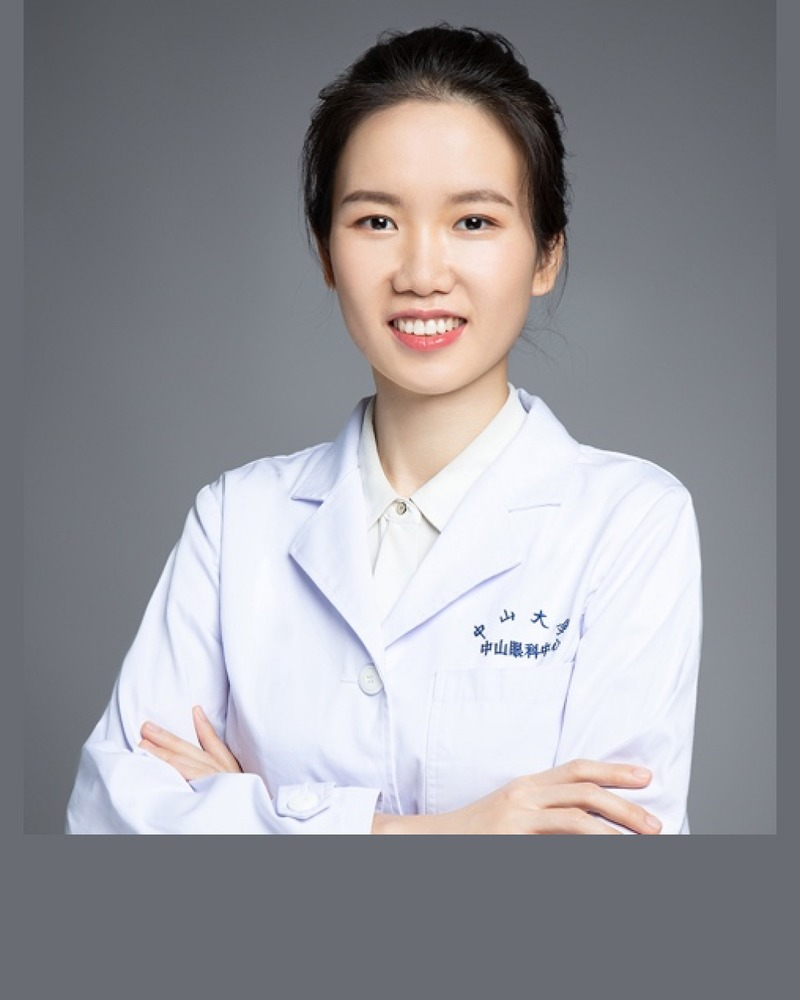
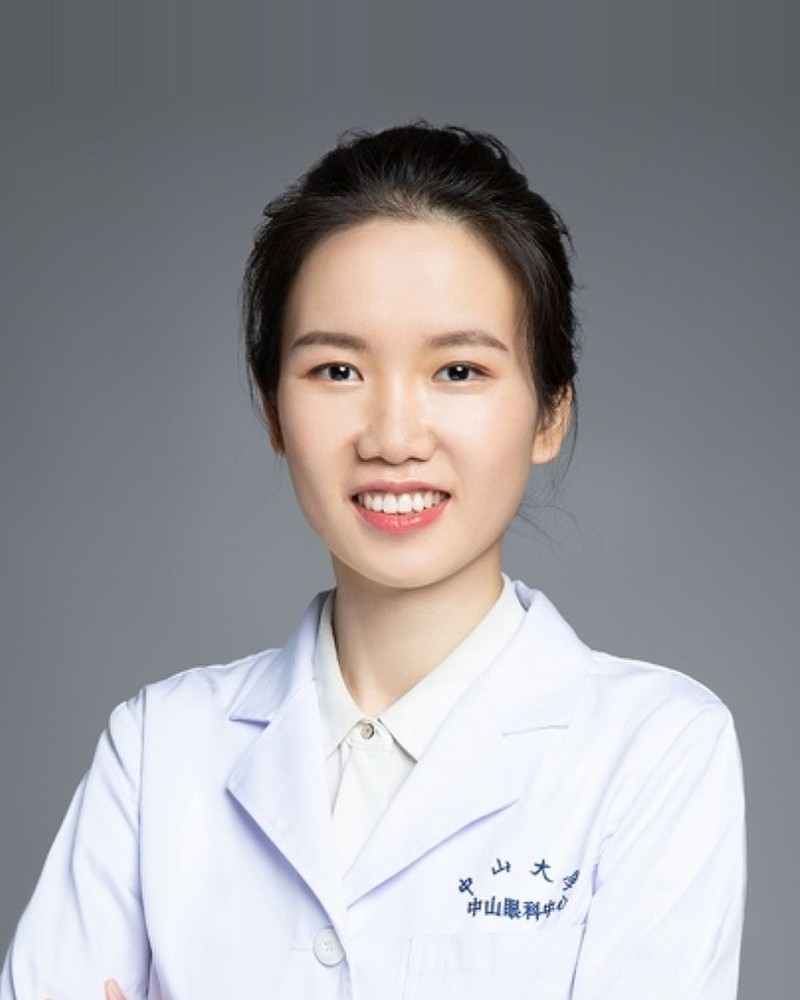
Polish per review feedback
- Hero/sections: cut excess vertical whitespace (shorter hero, tighter
  section + section-header padding) so the landing page reads compactly.
- Faculty photos: re-crop all five to a uniform head size/position with
  seamless backgrounds (removes letterbox bars and edge seams).
- Cohorts page: streamline ZAP/GDES/ZHMC intros - drop repeated numbers
  and the text wall, surface a publication record by journal with real
  counts (ZAP 16, GDES 31, ZHMC 19).
- Data Access: drop wrapping full cohort names from the snapshot cards
  (keep abbreviations); shorten eligibility / data-use items to one line.
- Publications: give every reference the same cyan left-border card.
- Team/Contact: PI photo now fills its card (no dead space below);
  remove the Lancet attribution from the PI bio and the unclear
  "Associate Director" title.

diff --git a/cohorts.html b/cohorts.html
@@ -10,7 +10,7 @@
 <link rel="stylesheet" href="assets/css/site.css?v=20260619-polish3">
 <style>
 /* Cohort page extras */
-.cohort-overview{display:grid;grid-template-columns:repeat(3,minmax(0,1fr));gap:18px;margin-bottom:3.5rem}
+.cohort-overview{display:grid;grid-template-columns:repeat(3,minmax(0,1fr));gap:18px;margin-bottom:2.5rem}
 .cohort-overview__card{
   display:grid;grid-template-columns:72px 1fr;gap:18px;align-items:center;
   background:linear-gradient(160deg,rgba(255,255,255,.085),rgba(0,212,255,.04));
@@ -23,7 +23,7 @@
 .cohort-overview__title{font-size:1rem;font-weight:800;color:#fff;line-height:1.22;margin-bottom:7px}
 .cohort-overview__title span{display:block}
 .cohort-overview__text{font-size:.85rem;color:var(--muted);line-height:1.55}
-.cohort-section{margin-bottom:5rem;scroll-margin-top:80px}
+.cohort-section{margin-bottom:3.25rem;scroll-margin-top:80px}
 .cohort-header{display:flex;align-items:center;gap:1rem;margin-bottom:2rem}
 .cohort-badge{font-weight:700;font-size:.72rem;letter-spacing:.12em;text-transform:uppercase;padding:.35rem 1rem;border-radius:999px}
 .cohort-badge--zap{background:rgba(99,102,241,.18);color:#818cf8}
@@ -38,8 +38,10 @@
 .cohort-keypoint{background:rgba(255,255,255,.05);border:1px solid rgba(255,255,255,.1);border-radius:var(--radius-sm);padding:.9rem}
 .cohort-keypoint strong{display:block;color:#fff;font-size:.86rem;margin-bottom:.25rem}
 .cohort-keypoint span{display:block;color:var(--muted);font-size:.78rem;line-height:1.5}
+.cohort-pubs-label{font-size:.7rem;font-weight:700;color:var(--muted);text-transform:uppercase;letter-spacing:.1em;margin:1.5rem 0 .1rem}
+.cohort-pubs-label b{color:var(--cyan)}
 .cohort-proof{
-  display:grid;grid-template-columns:repeat(3,minmax(0,1fr));gap:.75rem;margin:1.15rem 0 1.35rem;
+  display:grid;grid-template-columns:repeat(3,minmax(0,1fr));gap:.75rem;margin:.55rem 0 1.4rem;
 }
 .cohort-proof__item{
   background:rgba(0,212,255,.065);border:1px solid rgba(0,212,255,.18);
@@ -69,7 +71,7 @@
 .cstat__measure-title{font-size:.7rem;font-weight:700;color:var(--muted);text-transform:uppercase;letter-spacing:.1em;margin-bottom:.65rem}
 .measures-grid{display:flex;flex-wrap:wrap;gap:.4rem}
 .measure-pill{font-size:.72rem;background:rgba(255,255,255,.05);border:1px solid rgba(255,255,255,.1);border-radius:4px;padding:.2rem .6rem;color:rgba(255,255,255,.65)}
-.divider{border:none;border-top:1px solid var(--border-sub);margin:0 0 5rem}
+.divider{border:none;border-top:1px solid var(--border-sub);margin:0 0 3.25rem}
 /* Highlights */
 .highlight-box{
   background:linear-gradient(135deg,rgba(0,212,255,.05) 0%,rgba(255,255,255,.02) 100%);
@@ -166,34 +168,19 @@
 
       <div class="cohort-body">
         <div class="cohort-desc">
-          <p><strong>ZAP</strong> is the Zhongshan Angle-Closure Prevention Trial: an 889-participant randomized trial designed to answer one clinical question with unusual clarity &mdash; whether laser peripheral iridotomy prevents angle-closure progression in primary angle-closure suspects.</p>
+          <p><strong>ZAP</strong> &mdash; the Zhongshan Angle-Closure Prevention Trial &mdash; is a within-person randomized trial testing whether laser peripheral iridotomy prevents angle-closure progression in primary angle-closure suspects. Long follow-up and deep AS-OCT phenotyping make it the consortium's clearest platform for prevention and progression research.</p>
 
           <div class="cohort-keypoints">
-            <div class="cohort-keypoint"><strong>Design strength</strong><span>Within-person randomized design: one treated eye and one observed eye.</span></div>
-            <div class="cohort-keypoint"><strong>Clinical depth</strong><span>Gonioscopy, AS-OCT, IOP, visual fields, and anterior-segment biometry.</span></div>
-            <div class="cohort-keypoint"><strong>Scientific use</strong><span>Prevention evidence, risk prediction, and angle-closure natural history.</span></div>
+            <div class="cohort-keypoint"><strong>Design strength</strong><span>Within-person randomization: one treated eye, one observed eye.</span></div>
+            <div class="cohort-keypoint"><strong>Imaging depth</strong><span>Gonioscopy, AS-OCT, IOP, visual fields, and anterior-segment biometry.</span></div>
+            <div class="cohort-keypoint"><strong>Scientific use</strong><span>Prevention evidence, risk prediction, and natural-history modelling.</span></div>
           </div>
 
+          <div class="cohort-pubs-label">Publication record &middot; <b>16</b> peer-reviewed papers</div>
           <div class="cohort-proof">
-            <div class="cohort-proof__item"><strong>Lancet</strong><span>Primary RCT evidence base</span></div>
-            <div class="cohort-proof__item"><strong>Ophthalmology</strong><span>14-year extended follow-up</span></div>
-            <div class="cohort-proof__item"><strong>JAMA Ophthalmol</strong><span>AS-OCT progression mechanisms</span></div>
-          </div>
-
-          <div class="highlight-box">
-            <div class="highlight-box__label">Core Advantage</div>
-            <div class="highlight-box__text">ZAP combines randomized prevention evidence with long-term imaging follow-up, making it the consortium's clearest platform for angle-closure prevention and progression modelling.</div>
-          </div>
-
-          <p>The available research story is intentionally simple: a large prevention RCT, long follow-up, deep AS-OCT phenotyping, and a publication record spanning <em>Lancet</em>, <em>Ophthalmology</em>, and <em>JAMA Ophthalmology</em>.</p>
-
-          <div class="cohort-tags">
-            <span class="ctag ctag--blue">18-Year RCT</span>
-            <span class="ctag ctag--blue">889 Participants</span>
-            <span class="ctag ctag--blue">~1,750 Eyes</span>
-            <span class="ctag ctag--cyan">Lancet 2019</span>
-            <span class="ctag ctag--cyan">JAMA Ophthalmol</span>
-            <span class="ctag ctag--cyan">Ophthalmology</span>
+            <div class="cohort-proof__item"><strong>Lancet &times;1</strong><span>Landmark prevention RCT</span></div>
+            <div class="cohort-proof__item"><strong>JAMA Ophthalmol &times;4</strong><span>Progression &amp; biometric risk</span></div>
+            <div class="cohort-proof__item"><strong>Ophthalmology &times;4</strong><span>Long-term follow-up</span></div>
           </div>
 
           <div class="cohort-actions">
@@ -216,7 +203,7 @@
             <div class="cstat__lbl">Eyes Enrolled</div>
           </div>
           <div class="cstat cstat--zap">
-            <div class="cstat__num">15+</div>
+            <div class="cstat__num">16</div>
             <div class="cstat__lbl">Publications</div>
           </div>
           <div class="cstat cstat--zap cstat--measures">
@@ -249,34 +236,19 @@
 
       <div class="cohort-body">
         <div class="cohort-desc">
-          <p><strong>GDES</strong> is a deeply phenotyped diabetic eye cohort linking retinal structure, retinal microvasculature, plasma proteomics, metabolomics, and systemic outcomes in more than 3,000 participants with type 2 diabetes.</p>
+          <p><strong>GDES</strong> &mdash; the Guangzhou Diabetic Eye Study &mdash; is a deeply phenotyped type-2-diabetes eye cohort that links multimodal retinal imaging with plasma proteomics and metabolomics to systemic outcomes, turning the retina into a systemic-biomarker platform.</p>
 
           <div class="cohort-keypoints">
             <div class="cohort-keypoint"><strong>Multi-modal imaging</strong><span>Fundus photography, OCT, SS-OCTA, and longitudinal retinal phenotypes.</span></div>
-            <div class="cohort-keypoint"><strong>Multi-omics layer</strong><span>2,923 plasma proteins plus metabolomics and genetic resources.</span></div>
+            <div class="cohort-keypoint"><strong>Multi-omics layer</strong><span>Plasma proteomics, metabolomics, and genetic resources.</span></div>
             <div class="cohort-keypoint"><strong>Systemic links</strong><span>Cardiometabolic, renal, mortality, and diabetic complication outcomes.</span></div>
           </div>
 
+          <div class="cohort-pubs-label">Publication record &middot; <b>31</b> peer-reviewed papers</div>
           <div class="cohort-proof">
-            <div class="cohort-proof__item"><strong>Nat Commun</strong><span>2023 retinal-metabolic risk profiling</span></div>
-            <div class="cohort-proof__item"><strong>Nat Commun</strong><span>2025 proteomics and retinal ageing</span></div>
-            <div class="cohort-proof__item"><strong>PLOS Med</strong><span>In-print systemic risk evidence</span></div>
-          </div>
-
-          <div class="highlight-box">
-            <div class="highlight-box__label">Core Advantage</div>
-            <div class="highlight-box__text">GDES turns the retina into a systemic biomarker platform: imaging phenotypes can be interpreted together with proteomic and metabolic signatures.</div>
-          </div>
-
-          <p>The publication focus is retinal biomarkers for systemic disease: high-impact outputs include two <em>Nature Communications</em> papers and an in-print <em>PLOS Medicine</em> study.</p>
-
-          <div class="cohort-tags">
-            <span class="ctag ctag--green">3,000+ Participants</span>
-            <span class="ctag ctag--green">7-Year Follow-up</span>
-            <span class="ctag ctag--green">2,923 Proteins</span>
-            <span class="ctag ctag--cyan">OCT / SS-OCTA</span>
-            <span class="ctag ctag--cyan">Metabolomics</span>
-            <span class="ctag ctag--cyan">Nat Commun</span>
+            <div class="cohort-proof__item"><strong>Nat Commun &times;4</strong><span>Retinal-omics biomarkers</span></div>
+            <div class="cohort-proof__item"><strong>Am J Ophthalmol &times;7</strong><span>Imaging &amp; systemic risk</span></div>
+            <div class="cohort-proof__item"><strong>Br J Ophthalmol &times;7</strong><span>Retinal phenotyping</span></div>
           </div>
 
           <div class="cohort-actions">
@@ -330,7 +302,7 @@
 
       <div class="cohort-body">
         <div class="cohort-desc">
-          <p><strong>ZHMC</strong> is the Zhongshan High Myopia Cohort, a long-running clinical registry and prospective platform for high-myopia progression in children and adults.</p>
+          <p><strong>ZHMC</strong> &mdash; the Zhongshan High Myopia Cohort &mdash; is a long-running clinical registry and prospective platform for high-myopia progression in children and adults, combining deep OCT/OCTA imaging with AI risk modelling and myopia-control intervention trials.</p>
 
           <div class="cohort-keypoints">
             <div class="cohort-keypoint"><strong>High-myopia registry</strong><span>Longitudinal records for children and adults with high myopia.</span></div>
@@ -338,26 +310,11 @@
             <div class="cohort-keypoint"><strong>Intervention evidence</strong><span>Myopia-control trials and real-world treatment studies.</span></div>
           </div>
 
+          <div class="cohort-pubs-label">Publication record &middot; <b>19</b> peer-reviewed papers</div>
           <div class="cohort-proof">
-            <div class="cohort-proof__item"><strong>Ophthalmology</strong><span>2024 myopia-control RCT evidence</span></div>
-            <div class="cohort-proof__item"><strong>JAMA Ophthalmol</strong><span>2024 axial elongation trajectories</span></div>
-            <div class="cohort-proof__item"><strong>Br J Ophthalmol</strong><span>Choroid and maculopathy progression</span></div>
-          </div>
-
-          <div class="highlight-box">
-            <div class="highlight-box__label">Core Advantage</div>
-            <div class="highlight-box__text">ZHMC connects high-myopia natural history with imaging biomarkers and intervention studies, making it a practical platform for progression prediction and treatment evaluation.</div>
-          </div>
-
-          <p>The research emphasis is easy to grasp: axial elongation, myopic maculopathy, choroidal/OCTA biomarkers, AI risk modelling, and evidence for myopia-control interventions.</p>
-
-          <div class="cohort-tags">
-            <span class="ctag ctag--amber">14-Year Registry</span>
-            <span class="ctag ctag--amber">Children & Adults</span>
-            <span class="ctag ctag--amber">OCT / OCTA</span>
-            <span class="ctag ctag--cyan">AI Risk Models</span>
-            <span class="ctag ctag--cyan">Myopia Control</span>
-            <span class="ctag ctag--cyan">Maculopathy</span>
+            <div class="cohort-proof__item"><strong>Ophthalmology &times;3</strong><span>Myopia-control RCT evidence</span></div>
+            <div class="cohort-proof__item"><strong>JAMA Ophthalmol &times;1</strong><span>Axial elongation trajectories</span></div>
+            <div class="cohort-proof__item"><strong>Br J Ophthalmol &times;3</strong><span>Choroid &amp; maculopathy</span></div>
           </div>
 
           <div class="cohort-actions">

diff --git a/assets/css/site.css b/assets/css/site.css
@@ -61,7 +61,7 @@ p{color:rgba(255,255,255,.82)}
 /* Layout */
 .container{max-width:1160px;margin:0 auto;padding:0 24px}
 .container--wide{max-width:1280px}
-.section{padding:92px 0}
+.section{padding:62px 0}
 .grid-2{display:grid;grid-template-columns:1fr 1fr;gap:28px}
 .grid-3{display:grid;grid-template-columns:repeat(3,1fr);gap:28px;align-items:stretch}
 .grid-4{display:grid;grid-template-columns:repeat(4,1fr);gap:24px}
@@ -104,7 +104,7 @@ p{color:rgba(255,255,255,.82)}
 /* Hero */
 .hero{
   position:relative;overflow:hidden;
-  min-height:700px;height:calc(100vh - 66px);max-height:820px;
+  min-height:540px;
   display:flex;align-items:center;
   background-image:url('/images/Cover.png');
   background-size:cover;
@@ -131,7 +131,7 @@ p{color:rgba(255,255,255,.82)}
 }
 .hero__inner{
   display:grid;grid-template-columns:1fr 1fr;gap:64px;align-items:center;
-  width:100%;max-width:1160px;margin:0 auto;padding:74px 24px 96px;
+  width:100%;max-width:1160px;margin:0 auto;padding:56px 24px 56px;
   position:relative;z-index:1;
 }
 .hero__eyebrow{
@@ -187,7 +187,7 @@ p{color:rgba(255,255,255,.82)}
 .btn--outline:hover{border-color:var(--cyan);color:var(--cyan);box-shadow:0 0 14px rgba(0,212,255,.15)}
 
 /* Section headers */
-.sec-hd{margin-bottom:52px}
+.sec-hd{margin-bottom:34px}
 .sec-hd--c{text-align:center}
 .eyebrow{
   display:inline-flex;align-items:center;gap:8px;
@@ -216,7 +216,7 @@ p{color:rgba(255,255,255,.82)}
 .feature-strip{
   display:grid;grid-template-columns:repeat(4,minmax(0,1fr));
   gap:22px;
-  max-width:1280px;margin:28px auto 0;padding:0 24px 46px;
+  max-width:1280px;margin:18px auto 0;padding:0 24px 32px;
   position:relative;z-index:5;
 }
 .feature-item{
@@ -396,12 +396,11 @@ p{color:rgba(255,255,255,.82)}
 .pub-list{display:flex;flex-direction:column;gap:10px}
 .pub-item{
   background:var(--bg-card);border:1px solid var(--border-sub);
+  border-left:3px solid var(--cyan);
   border-radius:var(--radius);padding:18px 22px;
   transition:border-color var(--t),box-shadow var(--t);
 }
-.pub-item:hover{border-color:var(--border);box-shadow:0 4px 22px rgba(0,0,0,.35)}
-.pub-item.featured{border-left:3px solid var(--cyan)}
-.pub-item[data-cohort="zhmc"]{border-left:3px solid var(--cyan)}
+.pub-item:hover{border-color:var(--border);border-left-color:var(--cyan);box-shadow:0 4px 22px rgba(0,0,0,.35)}
 .pub-item__meta{display:flex;align-items:center;gap:7px;flex-wrap:wrap;margin-bottom:6px}
 .pub-tag{font-size:.65rem;font-weight:700;text-transform:uppercase;letter-spacing:.07em;padding:2px 8px;border-radius:4px}
 .pub-tag--zap{background:rgba(0,212,255,.15);color:var(--cyan)}
@@ -418,12 +417,12 @@ p{color:rgba(255,255,255,.82)}
 .team-pi{
   display:grid;grid-template-columns:240px 1fr;gap:2.5rem;
   background:var(--bg-card);border:1px solid var(--border-sub);
-  border-radius:var(--radius-lg);padding:2rem 2.25rem;align-items:start;
+  border-radius:var(--radius-lg);padding:2rem 2.25rem;align-items:stretch;
 }
 .team-pi__photo{position:relative}
-.team-pi__photo img{width:100%;border-radius:var(--radius);aspect-ratio:3/4;object-fit:cover}
+.team-pi__photo img{width:100%;height:100%;border-radius:var(--radius);object-fit:cover}
 .team-pi__avatar-fallback{
-  width:100%;aspect-ratio:3/4;background:var(--bg-soft);border-radius:var(--radius);
+  width:100%;height:100%;min-height:320px;background:var(--bg-soft);border-radius:var(--radius);
   display:flex;align-items:center;justify-content:center;
   font-size:3rem;font-weight:700;color:var(--cyan);
 }
@@ -507,7 +506,7 @@ p{color:rgba(255,255,255,.82)}
 .access-list{list-style:none;display:flex;flex-direction:column;gap:12px}
 .access-list li{display:flex;gap:10px;color:var(--muted);font-size:.92rem;line-height:1.55}
 .access-list .ok,.access-list .no{
-  flex-shrink:0;min-width:132px;height:26px;padding:2px 9px;border-radius:999px;
+  flex-shrink:0;min-width:112px;height:26px;padding:2px 9px;border-radius:999px;
   display:inline-flex;align-items:center;justify-content:center;font-size:.68rem;
   font-weight:800;letter-spacing:.05em;text-transform:uppercase;
 }
@@ -577,6 +576,8 @@ p{color:rgba(255,255,255,.82)}
   .page-hero__grid{grid-template-columns:1fr}
   .grid-3,.grid-4{grid-template-columns:1fr 1fr}
   .team-pi{grid-template-columns:1fr}
+  .team-pi__photo{max-width:300px}
+  .team-pi__photo img{height:auto;aspect-ratio:3/4}
   .contact-grid{grid-template-columns:1fr}
   .faculty-grid{grid-template-columns:repeat(2,1fr)}
   .feature-strip{grid-template-columns:1fr 1fr;margin:18px auto 0}

diff --git a/data_access.html b/data_access.html
@@ -57,7 +57,6 @@
     <div class="data-snapshot">
       <div class="data-snapshot__card">
         <div class="data-snapshot__tag">ZAP</div>
-        <h3 class="data-snapshot__title">Zhongshan Angle-Closure Prevention Trial</h3>
         <div class="data-snapshot__metrics">
           <div class="data-snapshot__metric"><span>Participants</span><strong>889 participants</strong></div>
           <div class="data-snapshot__metric"><span>Design</span><strong>18-year randomized trial</strong></div>
@@ -66,7 +65,6 @@
       </div>
       <div class="data-snapshot__card">
         <div class="data-snapshot__tag">GDES</div>
-        <h3 class="data-snapshot__title">Guangzhou Diabetic Eye Study</h3>
         <div class="data-snapshot__metrics">
           <div class="data-snapshot__metric"><span>Participants</span><strong>3,000+ participants</strong></div>
           <div class="data-snapshot__metric"><span>Follow-up</span><strong>7-year follow-up</strong></div>
@@ -75,7 +73,6 @@
       </div>
       <div class="data-snapshot__card">
         <div class="data-snapshot__tag">ZHMC</div>
-        <h3 class="data-snapshot__title">Zhongshan High Myopia Cohort</h3>
         <div class="data-snapshot__metrics">
           <div class="data-snapshot__metric"><span>Follow-up</span><strong>14-year registry</strong></div>
           <div class="data-snapshot__metric"><span>Imaging</span><strong>OCT / OCTA biomarkers</strong></div>
@@ -124,19 +121,19 @@
       <div class="access-panel">
         <h3>Eligibility Criteria</h3>
         <ul class="access-list">
-          <li><span class="ok">Eligible</span><span>Academic or non-profit research institution affiliation</span></li>
-          <li><span class="ok">Eligible</span><span>PI-level investigator or supervised graduate research team</span></li>
-          <li><span class="ok">In scope</span><span>Research question aligned with ZOC-OEC cohort strengths</span></li>
-          <li><span class="ok">Required</span><span>Secure data environment and institutional oversight</span></li>
+          <li><span class="ok">Eligible</span><span>Academic or non-profit institution</span></li>
+          <li><span class="ok">Eligible</span><span>PI-level investigator or research team</span></li>
+          <li><span class="ok">Required</span><span>Aligned with ZOC-OEC cohort strengths</span></li>
+          <li><span class="ok">Required</span><span>Secure data environment and oversight</span></li>
         </ul>
       </div>
       <div class="access-panel">
         <h3>Data Use Boundaries</h3>
         <ul class="access-list">
-          <li><span class="no">Not allowed</span><span>Re-identification attempts or third-party data sharing</span></li>
-          <li><span class="no">Separate approval</span><span>Commercial use or industry-sponsored analysis</span></li>
-          <li><span class="ok">Required</span><span>Publications should acknowledge ZOC-OEC and the relevant cohort</span></li>
-          <li><span class="ok">Required</span><span>Pre-submission review by the ZOC-OEC team for cohort accuracy</span></li>
+          <li><span class="no">Not allowed</span><span>Re-identification or third-party sharing</span></li>
+          <li><span class="no">Approval</span><span>Commercial or industry-sponsored use</span></li>
+          <li><span class="ok">Required</span><span>Acknowledge ZOC-OEC and the cohort</span></li>
+          <li><span class="ok">Required</span><span>Pre-submission manuscript review</span></li>
         </ul>
       </div>
     </div>

diff --git a/team.html b/team.html
@@ -59,7 +59,7 @@
         <div class="eyebrow">Principal Investigator</div>
         <h2 class="team-pi__name">Prof. Wei Wang</h2>
         <p class="team-pi__title">Professor, Zhongshan Ophthalmic Center<br>Sun Yat-sen University &middot; Guangzhou, China</p>
-        <p class="team-pi__bio">Professor Wei Wang leads the ZOC-OEC programme, directing a portfolio of eight population cohorts including three flagship longitudinal studies in glaucoma, diabetic eye disease, and high myopia. His research integrates population-based epidemiology, AI-assisted imaging analysis, and multi-omics to build precision risk models for ocular diseases. The programme has produced high-impact cohort papers in <em>Lancet</em>, <em>JAMA Ophthalmology</em>, <em>Nature Communications</em>, and <em>Ophthalmology</em>; Professor Wang has published over 310 peer-reviewed papers with citations &gt;20,000 and H-index 69.</p>
+        <p class="team-pi__bio">Professor Wei Wang leads the ZOC-OEC programme, directing a portfolio of eight population cohorts including three flagship longitudinal studies in glaucoma, diabetic eye disease, and high myopia. His research integrates population-based epidemiology, AI-assisted imaging analysis, and multi-omics to build precision risk models for ocular diseases. The programme has produced high-impact cohort papers in <em>JAMA Ophthalmology</em>, <em>Nature Communications</em>, and <em>Ophthalmology</em>; Professor Wang has published over 310 peer-reviewed papers with citations &gt;20,000 and an H-index of 69.</p>
         <div class="team-pi__links">
           <a href="https://orcid.org/0000-0002-5273-3332" target="_blank" rel="noopener" class="btn btn--outline">ORCID</a>
           <a href="mailto:wangwei@gzzoc.com" class="btn btn--outline">Email</a>

diff --git a/contact.html b/contact.html
@@ -48,7 +48,7 @@ layout: none
       <div class="contact-card contact-card--featured">
         <div class="contact-card__label">Principal Investigator</div>
         <h2 class="contact-card__name">Prof. Wei Wang</h2>
-        <p class="contact-card__role">Professor &amp; Associate Director<br>Zhongshan Ophthalmic Center<br>Sun Yat-sen University</p>
+        <p class="contact-card__role">Professor, Zhongshan Ophthalmic Center<br>Sun Yat-sen University</p>
         <div class="contact-card__links">
           <a href="mailto:wangwei@gzzoc.com" class="contact-link">
             <span class="contact-link__icon">Email</span>
